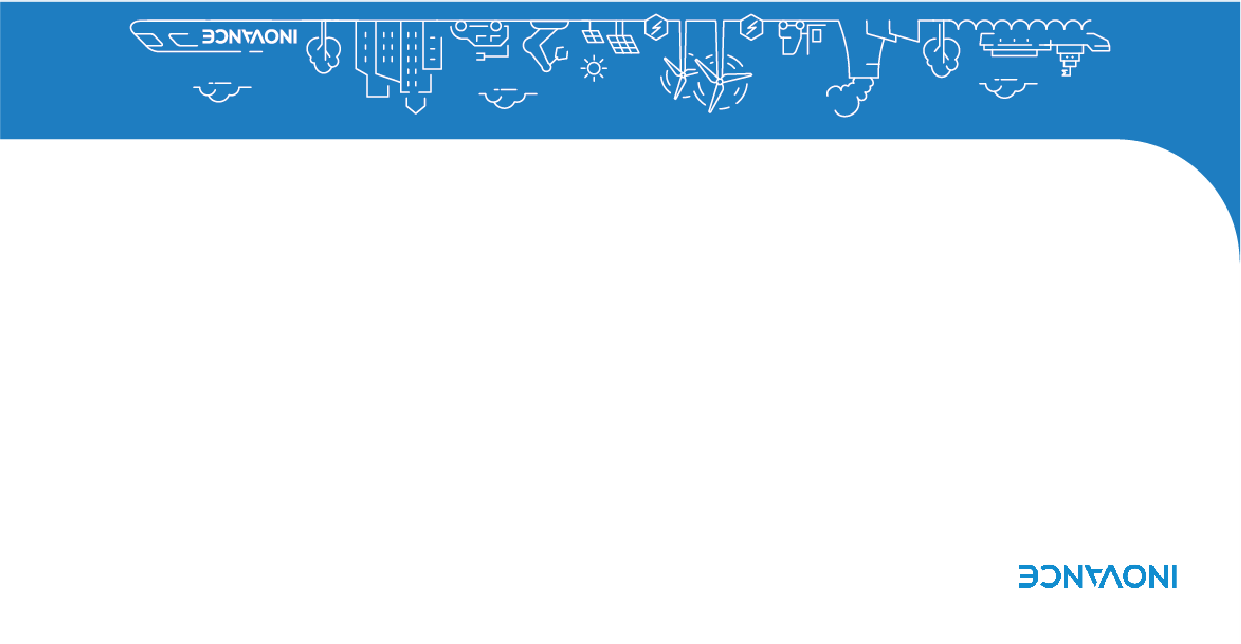
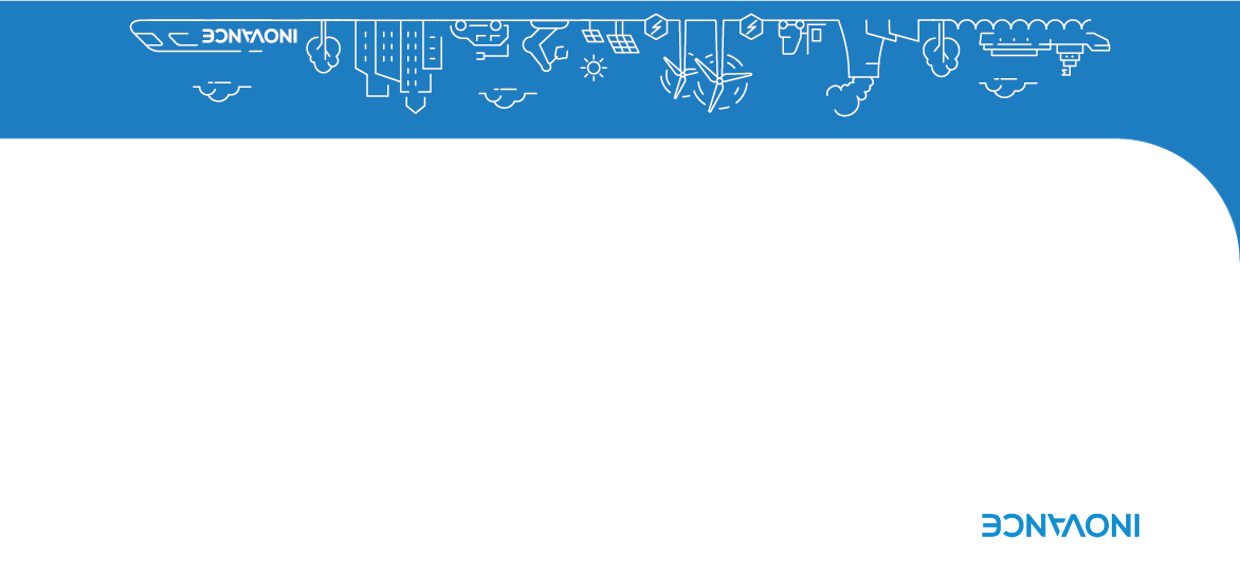
优化logo位置，更新背景图片

diff --git a/index.html b/index.html
@@ -712,6 +712,7 @@
             .page:not(:last-child):after {
                 display: none;
             }
+
         }
         
         /* 模式一：顶部logo样式 */
@@ -1166,7 +1167,7 @@
                     leftName.style.zIndex = '2'; // 确保文字在图片上方
                     
                     // 为所有页面统一设置上方名字的位置
-                    leftName.style.top = 'calc(30% + 20mm)'; // 向下移动20毫米
+                    leftName.style.top = 'calc(30% + 17mm)'; // 向下移动20毫米
                     leftName.style.left = '50%';
                     leftName.style.width = '100%';
                     leftName.style.textAlign = 'center';
@@ -1178,7 +1179,7 @@
                     rightName.style.zIndex = '2'; // 确保文字在图片上方
                     
                     // 为所有页面统一设置下方名字的位置
-                    rightName.style.bottom = 'calc(30% + 20mm)'; // 向上移动20毫米
+                    rightName.style.bottom = 'calc(30% + 17mm)'; // 向上移动20毫米
                     rightName.style.left = '50%';
                     rightName.style.width = '100%';
                     rightName.style.textAlign = 'center';
@@ -1335,7 +1336,7 @@
                     // 添加顶部横线
                     const topLine = document.createElement('div');
                     topLine.className = 'mode4-horizontal-line';
-                    topLine.style.top = '40mm';
+                    topLine.style.top = '50mm';
                     page.appendChild(topLine);
                     
                     // 添加中间横线
@@ -1347,23 +1348,25 @@
                     // 添加底部横线
                     const bottomLine = document.createElement('div');
                     bottomLine.className = 'mode4-horizontal-line';
-                    bottomLine.style.bottom = '40mm';
+                    bottomLine.style.bottom = '50mm';
                     page.appendChild(bottomLine);
+
+                    
                     
                     // 添加左上角logo
                     const topLeftLogo = document.createElement('img');
                     topLeftLogo.src = 'INOVANCE-logo.png';
                     topLeftLogo.className = 'mode4-logo';
-                    topLeftLogo.style.top = '155mm';
-                    topLeftLogo.style.left = '12mm';
+                    topLeftLogo.style.top = '160mm';
+                    topLeftLogo.style.left = '15mm';
                     page.appendChild(topLeftLogo);
                     
                     // 添加右下角logo - 旋转180度
                     const bottomRightLogo = document.createElement('img');
                     bottomRightLogo.src = 'INOVANCE-logo.png';
                     bottomRightLogo.className = 'mode4-logo';
-                    bottomRightLogo.style.bottom = '153mm';
-                    bottomRightLogo.style.right = '12mm';
+                    bottomRightLogo.style.bottom = '160mm';
+                    bottomRightLogo.style.right = '15mm';
                     bottomRightLogo.style.transform = 'rotate(180deg)';
                     page.appendChild(bottomRightLogo);
                     
